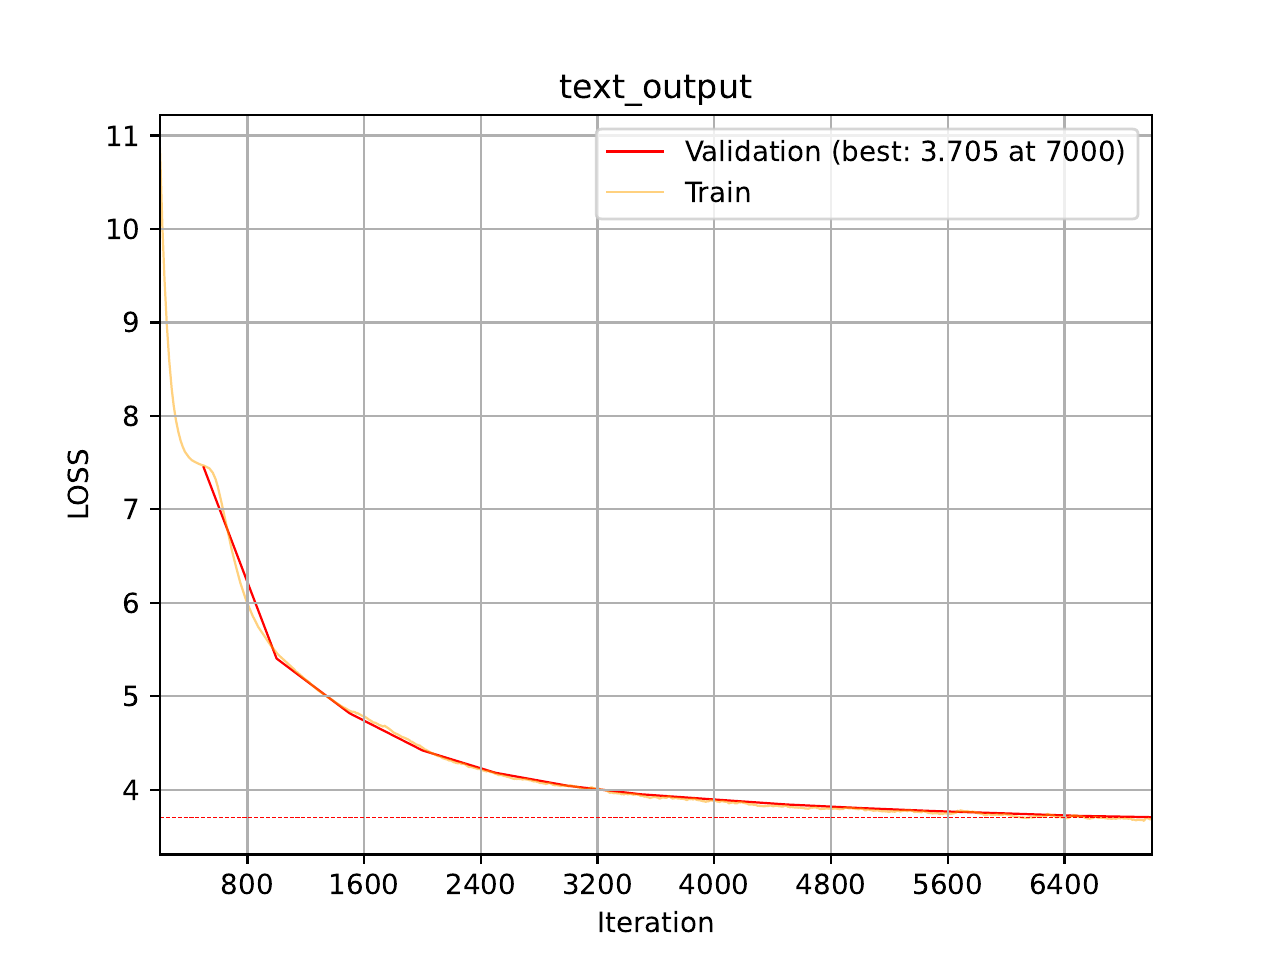
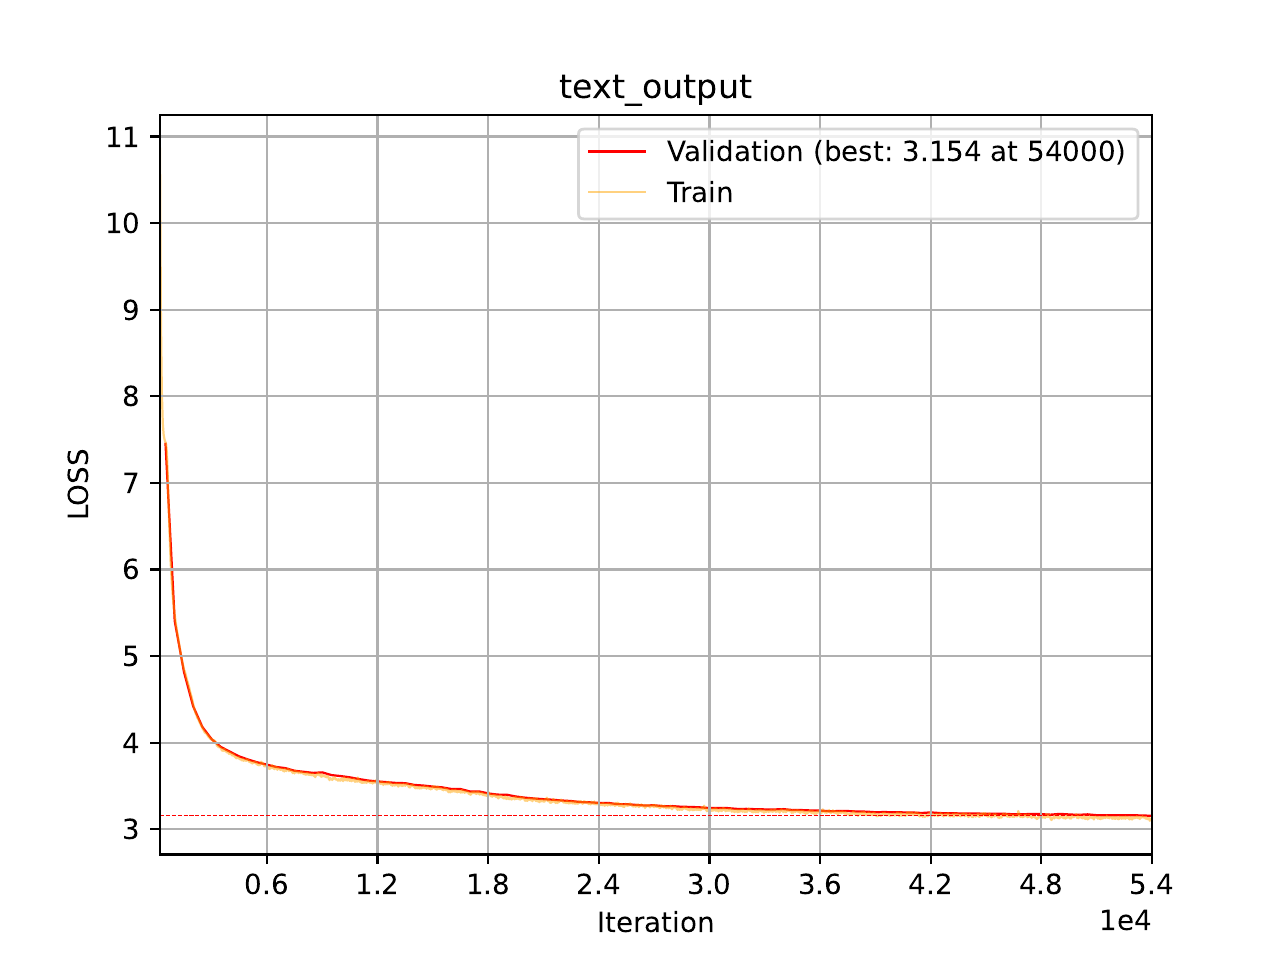
update(docs): Add compute scaling tutorial. Minor doc updates / fixes.

diff --git a/docs/doc_modules/i_scaling/b_scaling_compute.py b/docs/doc_modules/i_scaling/b_scaling_compute.py
@@ -90,12 +90,12 @@ def get_streaming_generation_experiment() -> AutoDocExperimentInfo:
             "figures/manual_generated_iter_500.txt",
         ),
         (
-            "samples/45000/auto/0_generated.txt",
-            "figures/auto_generated_iter_45000.txt",
+            "samples/52000/auto/0_generated.txt",
+            "figures/auto_generated_iter_52000.txt",
         ),
         (
-            "samples/45000/manual/1_generated.txt",
-            "figures/manual_generated_iter_45000.txt",
+            "samples/52000/manual/1_generated.txt",
+            "figures/manual_generated_iter_52000.txt",
         ),
     ]
 

diff --git a/docs/doc_modules/experiments.py b/docs/doc_modules/experiments.py
@@ -109,6 +109,9 @@ def find_and_copy_files(
         if path.name == ".DS_Store":
             continue
 
+        if ".ipynb_checkpoints" in str(path):
+            continue
+
         for pattern, target in patterns:
             if re.match(pattern=pattern, string=str(path)) or pattern in str(path):
                 output_destination = output_folder / target

diff --git a/docs/tutorials/i_scaling/02_compute_gpt.rst b/docs/tutorials/i_scaling/02_compute_gpt.rst
@@ -1,0 +1,143 @@
+.. _i-scaling-compute-gpt:
+
+.. role:: raw-html(raw)
+    :format: html
+
+02 – Scaling Compute: Training a BabyGPT
+========================================
+
+In this tutorial, we will examine how we can scale up `EIR` to train a baby version
+of the GPT model, streaming data from the FineWeb dataset for model training.
+
+.. note::
+    This tutorial assumes you are familiar with the basics of `EIR`.
+    While not required, it's recommended to have gone through the basic tutorials first.
+
+.. note::
+    See :ref:`i-scaling-streaming-data` and :ref:`streaming-data-guide`
+    for more information on streaming data in EIR.
+
+A - Overview
+------------
+
+This tutorial largely follows the same approach as in :ref:`i-scaling-streaming-data`.
+Again, we will be using a WebSocket server to stream data, but this time we will be
+focusing on scaling compute by training a larger model.
+
+B - Setting Up
+--------------
+
+Here's the folder structure we'll be working with:
+
+.. literalinclude:: ../tutorial_files/i_scaling/02_scaling_compute/commands/tutorial_folder.txt
+    :language: console
+
+The global config specifies basic training and below are highlighted a couple
+related to scaling:
+
+.. literalinclude:: ../tutorial_files/i_scaling/02_scaling_compute/globals.yaml
+    :language: yaml
+    :caption: globals.yaml
+    :emphasize-lines: 8-10,17-25
+
+Now, the optimization parameters are not directly related to scaling, but follow
+common practice used to train large language models such as GPT2. However, we
+do specify that we want to compile the model and train with a ``bf16-mixed`` precision,
+which is becoming common practice for training large models. Additionally, many
+options related to e.g. hardware are set to ``auto`` (which is the default),
+which allows the framework to automatically select the best options for the
+compute environment being used.
+Note a lot of this functionality is
+taking advantage of the excellent done by the folks at `PyTorch <https://pytorch.org/>`__
+and `Fabric <https://lightning.ai/docs/fabric/stable/>`__.
+
+You might also notice the ``streaming_setup_samples`` option there, read a
+bit further down to when we are discussing the ``output.yaml`` for more
+details.
+
+For fusion, we use a simple pass-through configuration since we're only doing
+sequence generation:
+
+.. literalinclude:: ../tutorial_files/i_scaling/02_scaling_compute/fusion.yaml
+    :language: yaml
+    :caption: fusion.yaml
+
+Compared to the streaming tutorial, we can see here how we are increasing the
+maximum sequence length used by the model (now 512), as well as a bunch of parameters
+in the model configuration.
+
+.. literalinclude:: ../tutorial_files/i_scaling/02_scaling_compute/output.yaml
+    :language: yaml
+    :caption: output.yaml
+    :emphasize-lines: 10,15-22
+
+You might also notice something new here, we are using the ``tokenizer`` option to point
+to the file ``fineweb_tokenizer.json``. This is a tokenizer file created
+with the `tokenizers <https://huggingface.co/docs/tokenizers/index>`__ library,
+specifically the BPE tokenizer, trained on 0.5m samples from the FineWeb dataset.
+You can download the tokenizer file from
+`this link. <https://drive.google.com/file/d/10nqy1z3wqt-KHOlYw_t-UgfcEMdFSySO>`__.
+Now, we can also omit this and allow ``EIR`` to train the optimizer from scratch,
+this is where the ``streaming_setup_samples`` option comes in. This option controls
+how many samples are collected from the streaming server to use for setup (e.g.,
+training the tokenizer, estimating means for imputation, etc.). However, training
+the tokenizer can take a while, so to speed things up a bit, we are using
+the pre-trained tokenizer.
+
+C - Training
+------------
+
+Before starting training, we need to ensure our streaming server is running.
+The server will serve chunks of text from the FineWeb dataset. Once it's
+running, we can start training:
+
+.. literalinclude:: ../tutorial_files/i_scaling/02_scaling_compute/commands/STREAMING_SEQUENCE_GENERATION.txt
+    :language: console
+
+Now, to train this, you almost certainly need a GPU. For this tutorial,
+the model was trained for around 2 hours on two H100 GPUs.
+
+At iteration 500:
+
+.. literalinclude:: ../tutorial_files/i_scaling/02_scaling_compute/figures/auto_generated_iter_500.txt
+    :language: console
+    :caption: Auto-generated sequence at iteration 500
+
+.. literalinclude:: ../tutorial_files/i_scaling/02_scaling_compute/figures/manual_generated_iter_500.txt
+    :language: console
+    :caption: Manually generated sequence at iteration 500
+
+By iteration 52000, we can see improvement:
+
+.. literalinclude:: ../tutorial_files/i_scaling/02_scaling_compute/figures/auto_generated_iter_52000.txt
+    :language: console
+    :caption: Auto-generated sequence at iteration 52000
+
+.. literalinclude:: ../tutorial_files/i_scaling/02_scaling_compute/figures/manual_generated_iter_52000.txt
+    :language: console
+    :caption: Manually generated sequence at iteration 52000
+
+Here's the training curve showing our progress:
+
+.. image:: ../tutorial_files/i_scaling/02_scaling_compute/figures/training_curve_LOSS.png
+    :width: 100%
+    :align: center
+
+D - Complete Server Implementation
+----------------------------------
+
+Here's the complete implementation of our streaming server, which you can use
+as a reference for implementing your own:
+
+.. literalinclude:: ../../doc_modules/i_scaling/text_streamer.py
+    :language: python
+    :caption: text_streamer.py
+
+F - Conclusion
+--------------
+
+In this tutorial we explored how to scale up `EIR`
+to train a baby version of the GPT model,
+streaming data from the FineWeb dataset for model training.
+
+Thank you for reading!

diff --git a/docs/tutorials/i_scaling/01_streaming.rst b/docs/tutorials/i_scaling/01_streaming.rst
@@ -66,8 +66,12 @@ C - Training
 ------------
 
 Before starting training, we need to ensure our streaming server is running.
-The server will serve chunks of text from the FineWeb dataset. Once it's
-running, we can start training:
+The server will serve chunks of text from the FineWeb dataset. See section F
+of this tutorial for the complete implementation of the server. To start it,
+ copy the content of the file ``text_streamer.py`` to a Python file and run it
+with ``python text_streamer.py``.
+
+Once it's running, in another terminal, we can start training:
 
 .. literalinclude:: ../tutorial_files/i_scaling/01_streaming_data/commands/STREAMING_SEQUENCE_GENERATION.txt
     :language: console

diff --git a/docs/tutorials/tutorial_index.rst b/docs/tutorials/tutorial_index.rst
@@ -80,6 +80,7 @@ Scaling
     :maxdepth: 2
 
     i_scaling/01_streaming.rst
+    i_scaling/02_compute_gpt.rst
 
 
 Customizing EIR
